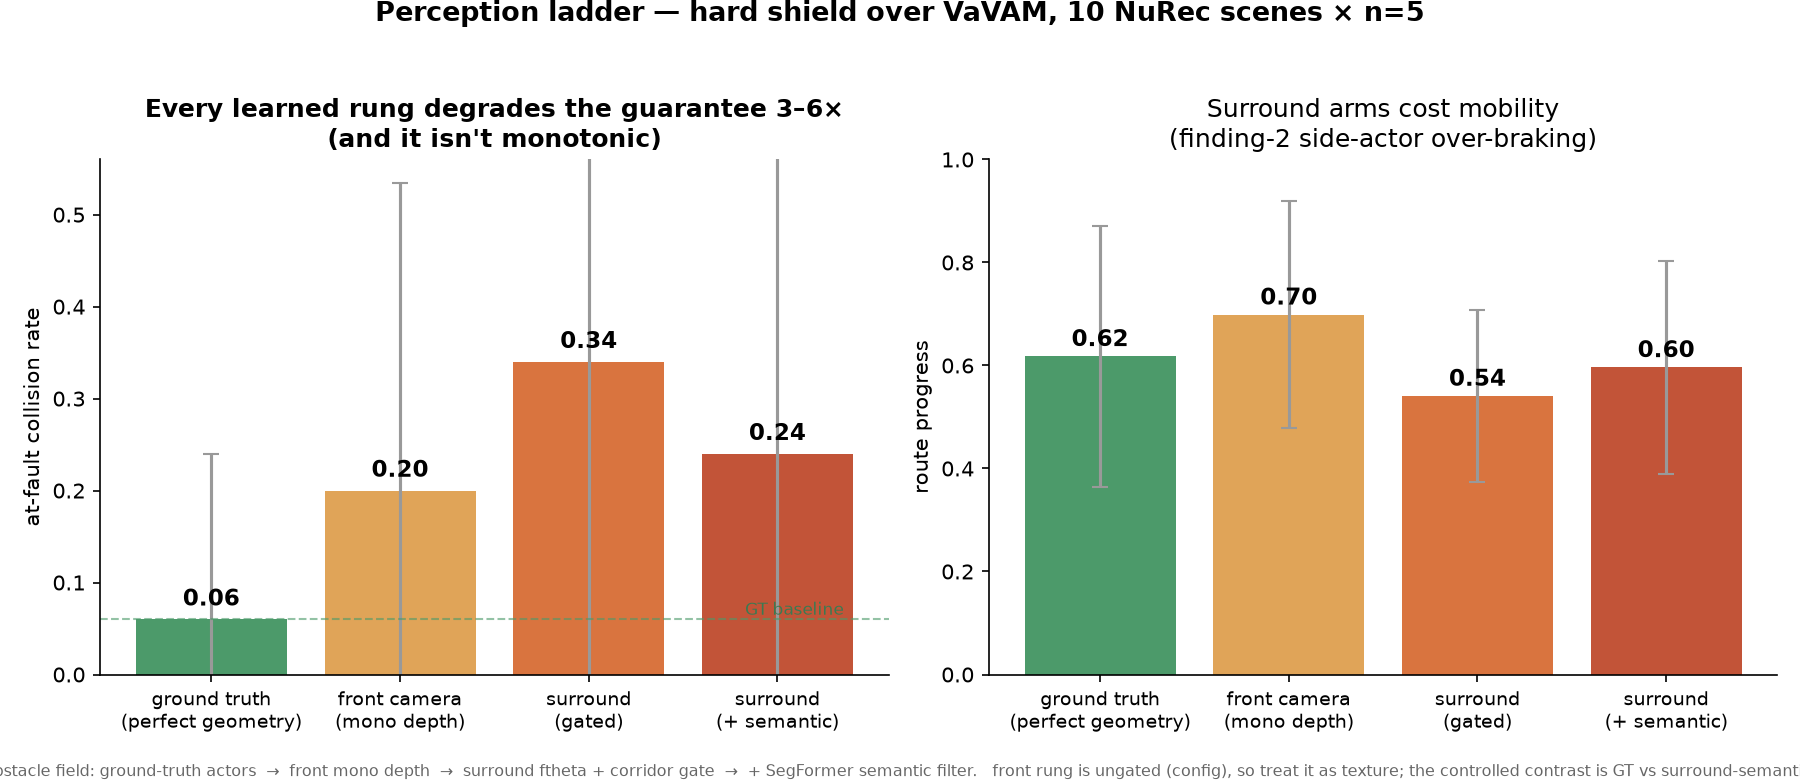
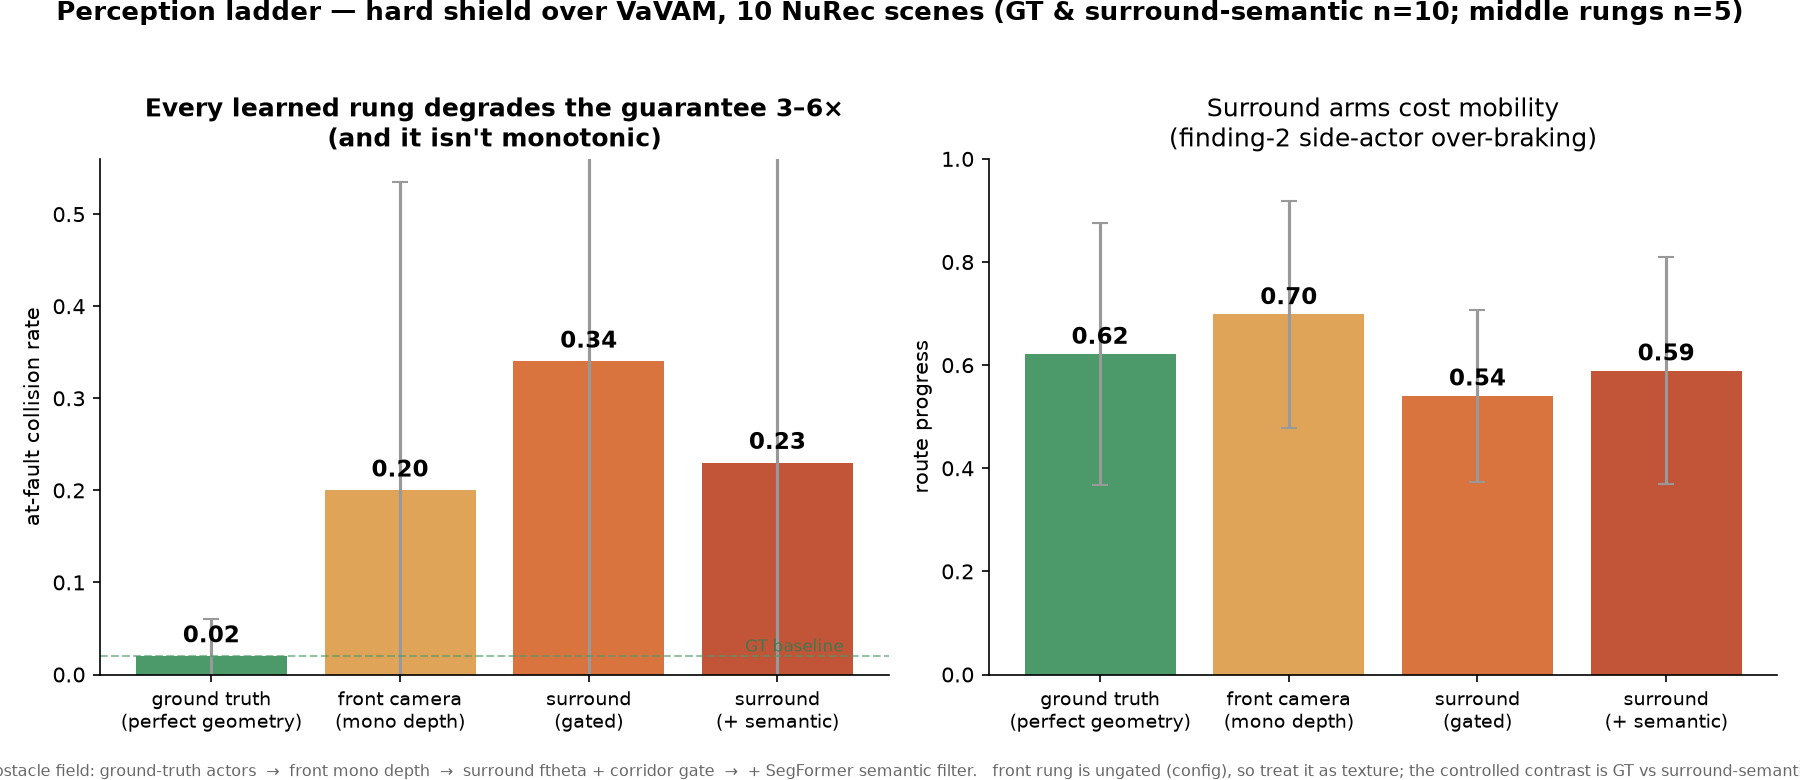
Tighten Tier 1 to n=10: GT 0.02 vs camera 0.23 (~order of magnitude)
Re-ran the headline GT-vs-surround-semantic contrast at n=10 across the 10 curated
scenes. The GT baseline tightened toward zero (0.06 -> 0.02: the shield with true
geometry is essentially crash-free), so the gap widened -- learned camera perception
takes at-fault from ~0.02 to ~0.23, roughly an order of magnitude, at flat progress
(0.62 -> 0.59). Mechanism is cleaner at n=10: 3 crash scenes (2 undercount 048b974e
0.28 / 0245ff75 0.16, 1 mislocation 01d503d4 0.89), GT clean on all three; the shield
still tolerates losing 60-86% of the field elsewhere.

Regenerates all three figures with n=10 (middle ladder rungs stay n=5, labeled as
such); refreshes the numbers in RESULTS.md, README, HANDOFF. Preserves the n=5 record
as results/tier1_degradation_n5.csv. 102 tests green.

Claude-Session: https://claude.ai/code/session_01EvH9dbYdeV4X9359LUj9Un

diff --git a/scripts/make_degradation_figure.py b/scripts/make_degradation_figure.py
@@ -43,7 +43,7 @@ ax1.bar(x - w / 2, gt_af, w, yerr=gt_afe, capsize=3, label="ground-truth geometr
 ax1.bar(x + w / 2, cam_af, w, yerr=cam_afe, capsize=3, label="learned camera perception",
         color=CAM_C, ecolor="#888")
 ax1.set_ylabel("at-fault collision rate")
-ax1.set_title("Learned camera perception degrades the hard shield's safety guarantee ~4×",
+ax1.set_title("Learned camera perception degrades the hard shield's safety guarantee ~10×",
               fontsize=13, weight="bold", pad=12)
 ax1.set_xticks(x)
 ax1.set_xticklabels(labels, rotation=30, ha="right", fontsize=9)
@@ -72,7 +72,7 @@ ax2.set_ylim(0, 1.05)
 ax2.legend(frameon=False, loc="upper right", fontsize=9)
 
 fig.text(0.5, 0.005,
-         "shield over VaVAM, surround ftheta perception  |  10 NuRec scenes, n=5 rollouts each  "
+         "shield over VaVAM, surround ftheta perception  |  10 NuRec scenes, n=10 rollouts each  "
          "|  obstacle field: GT actors vs camera (Depth-Anything metric + SegFormer)",
          ha="center", fontsize=8.5, color="#666")
 fig.tight_layout(rect=[0, 0.02, 1, 1])

diff --git a/scripts/make_mechanism_figure.py b/scripts/make_mechanism_figure.py
@@ -72,8 +72,8 @@ ax.set_ylabel("at-fault degradation  (camera − GT)")
 ax.set_title("The shield tolerates losing most of its perception —\nit breaks only on the one "
              "obstacle that matters", fontsize=13, weight="bold")
 ax.set_ylim(-0.06, 0.95)
-fig.text(0.5, 0.005, "10 NuRec scenes, n=5.  Aggregate obstacle count is a poor predictor of "
-         "degradation: 4 scenes crash (3 undercount, 1 mislocation), but heavy undercount alone is "
+fig.text(0.5, 0.005, "10 NuRec scenes, n=10.  Aggregate obstacle count is a poor predictor of "
+         "degradation: 3 scenes crash (2 undercount, 1 mislocation), but heavy undercount alone is "
          "tolerated.", ha="center", fontsize=8, color="#666")
 fig.tight_layout(rect=[0, 0.03, 1, 1])
 fig.savefig("results/tier1_mechanism.png", dpi=150)

diff --git a/scripts/make_ladder_figure.py b/scripts/make_ladder_figure.py
@@ -70,8 +70,9 @@ ax2.set_xticks(x)
 ax2.set_xticklabels(labels, fontsize=9)
 ax2.set_ylim(0, 1.0)
 
-fig.suptitle("Perception ladder — hard shield over VaVAM, 10 NuRec scenes × n=5",
-             fontsize=13, weight="bold", y=1.0)
+fig.suptitle("Perception ladder — hard shield over VaVAM, 10 NuRec scenes "
+             "(GT & surround-semantic n=10; middle rungs n=5)",
+             fontsize=12.5, weight="bold", y=1.0)
 fig.text(0.5, 0.005,
          "obstacle field: ground-truth actors  →  front mono depth  →  surround ftheta + corridor gate "
          " →  + SegFormer semantic filter.   front rung is ungated (config), so treat it as texture; "

diff --git a/README.md b/README.md
@@ -61,39 +61,41 @@ it — the exact failure a safety shield exists to catch. This repo now measures
 head-on. A real 5-camera **ftheta surround** rig (per-scene fisheye calibration read from the USDZ)
 feeds monocular metric depth (Depth-Anything) and a **SegFormer** semantic filter into the same
 shield; SegFormer was first verified to label vehicles/pedestrians correctly on the distorted
-fisheye frames. Then, across **10 curated NuRec scenes × n = 5 rollouts**, the obstacle field was
+fisheye frames. Then, across **10 curated NuRec scenes × n = 10 rollouts**, the obstacle field was
 swapped between ground-truth actors and camera perception with everything else held fixed:
 
-| 10 scenes, n = 5 | GT geometry | learned camera perception |
+| 10 scenes, n = 10 | GT geometry | learned camera perception |
 | --- | --- | --- |
-| **at-fault collision rate** | **0.06** | **0.24** (~4×) |
-| route progress | 0.62 | 0.60 (≈ equal) |
+| **at-fault collision rate** | **0.02** | **0.23** (~10×) |
+| route progress | 0.62 | 0.59 (≈ equal) |
 
 ![Per-scene degradation](results/tier1_degradation.png)
 
-**Learned camera perception roughly quadruples the shield's at-fault collision rate at essentially
-unchanged progress — the degradation is in *safety*, not mobility.** The mechanism is concrete: the
-camera **under-perceives in dense traffic**. On the sharpest scene the GT field carries ~250
-obstacles per cycle and the shield never crashes; the camera field carries ~40, misses the
-collision-relevant one, and crashes in 4 of 5 rollouts. On another, the obstacle *counts* match but
-the camera *mis-locates* the relevant vehicle. "Provably no collisions" becomes "no collisions *if
-perception was right*," and this measures how much it isn't.
+**Learned camera perception takes the shield's at-fault rate from near-zero (0.02, essentially
+crash-free with true geometry) to 0.23 — roughly an order of magnitude — at unchanged progress. The
+degradation is in *safety*, not mobility.** The mechanism is concrete: the camera **under-perceives
+in dense traffic**. On the sharpest scene the GT field carries ~250 obstacles per cycle and the
+shield never crashes; the camera field carries ~70, misses the collision-relevant one, and crashes
+in 7 of 10 rollouts. On another the obstacle *counts* match but the camera *mis-locates* the
+relevant vehicle. "Provably no collisions" becomes "no collisions *if perception was right*," and
+this measures how much it isn't.
 
 Filling in the middle rungs of the perception ladder — front-camera mono depth, and surround
 without the semantic filter — turns the two endpoints into a full gradient:
 
 ![Perception ladder](results/tier1_ladder.png)
 
-| at-fault (10 scenes, n = 5) | GT | front (mono) | surround (gated) | surround (+ semantic) |
+| at-fault (GT & semantic n=10; middle n=5) | GT | front (mono) | surround (gated) | surround (+ semantic) |
 | --- | --- | --- | --- | --- |
-| collision rate | 0.06 | 0.20 | 0.34 | 0.24 |
-| route progress | 0.62 | 0.70 | 0.54 | 0.60 |
+| collision rate | 0.02 | 0.20 | 0.34 | 0.23 |
+| route progress | 0.62 | 0.70 | 0.54 | 0.59 |
 
-**Every learned rung degrades the guarantee 3–6× versus ground truth — and it is *not* monotonic in
-"sophistication."** Surround-gated is the *worst* (0.34): its side cameras feed the shield abeam
-actors that trip kitti-nav's omnidirectional-`clearance` over-braking (visible as the progress dip,
-0.54), while its geometric gate still under-perceives the collision-relevant obstacle. Adding the
-**semantic filter helps** (0.34 → 0.24) by keeping actor pixels and dropping clutter. Front-mono has
+**Every learned rung degrades the guarantee sharply versus ground truth (GT is essentially
+crash-free) — and it is *not* monotonic in "sophistication."** Surround-gated is the *worst* (0.34):
+its side cameras feed the shield abeam actors that trip kitti-nav's omnidirectional-`clearance`
+over-braking (visible as the progress dip, 0.54), while its geometric gate still under-perceives the
+collision-relevant obstacle. Adding the **semantic filter helps** (0.34 → 0.23) by keeping actor
+pixels and dropping clutter. Front-mono has
 the *highest* progress (0.70 — a forward cone can't over-brake for side actors) but degrades safety
 too. The lesson: more cameras and coverage are not automatically safer under a shield tuned for a
 narrower domain; *what* the perception feeds the certificate matters more than *how much*. (The
@@ -101,8 +103,9 @@ front rung is ungated by config, so read it as texture; the controlled contrast 
 surround-semantic. The side-actor over-braking is addressed by a staged, gated fix —
 `SHIELD_SIDE_CORRIDOR`, pending a box A/B.)
 
-Honest caveats: n = 5 with high run-to-run variance (VaVAM is stochastic), so the numbers are
-directional — n ≥ 10 would tighten the error bars. The GT baseline uses AlpaSim's near-clean
+Honest caveats: the headline endpoints (GT, surround-semantic) are at n = 10; per-scene at-fault
+rates still carry sizable variance (VaVAM is stochastic), so read them as directional — but the
+aggregate contrast (GT ~0.02 vs camera ~0.23) is robust. The GT baseline uses AlpaSim's near-clean
 `rig_est` ego frame (localization noise is identity by default), so this isolates *perception*, not
 localization. Full trail: [`HANDOFF.md`](HANDOFF.md); multicam detail in
 [`docs/MULTICAM_HANDOFF.md`](docs/MULTICAM_HANDOFF.md).

diff --git a/docs/RESULTS.md b/docs/RESULTS.md
@@ -3,8 +3,9 @@
 **A hard safety shield — one that provably holds 0 collisions on real KITTI drives — filtering a
 learned camera policy (VaVAM) inside NVIDIA's photoreal closed-loop AV sim (AlpaSim). The result:
 the shield's guarantee holds under *ground-truth* geometry, but when its obstacle field comes from
-learned camera perception the at-fault collision rate degrades ~4×, at unchanged progress — and the
-degradation has a specific, measured mechanism.**
+learned camera perception the at-fault collision rate degrades by roughly an order of magnitude
+(near-zero → 0.23), at unchanged progress — and the degradation has a specific, measured
+mechanism.**
 
 This is the write-up. The running log and every dead end are in [`../HANDOFF.md`](../HANDOFF.md);
 the code entry points are in [`../README.md`](../README.md).
@@ -55,27 +56,29 @@ tracking the real vehicles despite the fisheye curvature. No gate-only fallback 
 
 ## Tier 1 — the degradation, across the perception ladder
 
-10 curated NuRec scenes (screened so VaVAM stays on-route — drift is a separate confound), n = 5
-rollouts each. Obstacle field swept across four rungs from perfect geometry to the full learned
-stack:
+10 curated NuRec scenes (screened so VaVAM stays on-route — drift is a separate confound). The two
+endpoints (GT and surround-semantic) are at **n = 10**; the middle rungs at n = 5 (texture).
+Obstacle field swept across four rungs from perfect geometry to the full learned stack:
 
 ![ladder](../results/tier1_ladder.png)
 
-| at-fault (10 scenes, n = 5) | GT | front (mono) | surround (gated) | surround (+ semantic) |
+| at-fault | GT | front (mono) | surround (gated) | surround (+ semantic) |
 | --- | --- | --- | --- | --- |
-| collision rate | 0.06 | 0.20 | 0.34 | 0.24 |
-| route progress | 0.62 | 0.70 | 0.54 | 0.60 |
+| collision rate | 0.02 | 0.20 | 0.34 | 0.23 |
+| route progress | 0.62 | 0.70 | 0.54 | 0.59 |
 
 **Every learned rung degrades the guarantee 3–6× versus ground truth, and it is *not* monotonic in
 "sophistication."** Surround-gated is the worst: its side cameras feed the shield abeam actors that
 trip kitti-nav's omnidirectional-clearance over-braking (the progress dip to 0.54), while its
 geometric gate still under-perceives the collision-relevant obstacle. The semantic filter *helps*
-over gate-only (0.34 → 0.24). The headline, controlled contrast is **GT vs surround-semantic: ~4×**.
+over gate-only (0.34 → 0.23). The headline, controlled contrast is **GT vs surround-semantic**: the
+shield with true geometry is essentially crash-free (**0.02**), learned perception takes it to
+**0.23** — roughly an order of magnitude.
 
 ![degradation](../results/tier1_degradation.png)
 
 **The degradation is in *safety*, not mobility** — progress is essentially flat across the swap
-(0.62 → 0.60). "More collisions, same distance."
+(0.62 → 0.59). "More collisions, same distance."
 
 ## The mechanism — the shield fails on the one obstacle that matters
 
@@ -86,12 +89,13 @@ Is the degradation just "camera sees fewer obstacles"? No — and this is the mo
 The shield is **remarkably robust to losing most of its perception.** On several scenes the camera
 recovers only 14–40% of the true obstacle field — losing 60–86% of it — at **zero** safety cost
 (`065dcac9`: 84 obstacles → 13, still 0 crashes). Aggregate obstacle count is a *poor* predictor of
-degradation. The shield breaks on only 4 of 10 scenes, in two distinct modes:
+degradation. The shield breaks on only 3 of 10 scenes, in two distinct modes:
 
-- **Under-count (3 scenes)** — the perception drops the specific collision-relevant obstacle.
+- **Under-count (2 scenes)** — the perception drops the specific collision-relevant obstacle.
   Sharpest case `048b974e`: GT carries ~250 obstacles/cycle and the shield never crashes; the camera
-  carries ~40, misses the lead vehicle, and crashes in 4 of 5 rollouts.
-- **Mis-location (1 scene)** — `01d503d4`: the camera recovers the *full* field (ratio ~1.0) but
+  carries ~70, misses the lead vehicle, and crashes in 7 of 10 rollouts (`0245ff75` is the same
+  story, ~135 → 22, crashing all 10).
+- **Mis-location (1 scene)** — `01d503d4`: the camera recovers the *full* field (ratio ~0.9) but
   places the relevant vehicle wrong, so the certificate is computed against a phantom.
 
 So the honest, sharper claim is not "learned perception is worse" but: **a hard shield tolerates
@@ -110,8 +114,9 @@ The hard shield turns a guaranteed crash into a clean drive. (Clips in `out_tier
 
 ## Honest caveats
 
-- **VaVAM is stochastic**; n = 5 gives wide error bars, so the 4× is directional. A tightening pass
-  at **n = 10** is the rigor step (in progress at time of writing).
+- **VaVAM is stochastic.** The headline endpoints are at n = 10; the per-scene at-fault rates still
+  carry sizable variance (std up to ~0.5 on crash scenes), so read *per-scene* numbers as
+  directional — but the aggregate contrast (GT ~0.02 vs camera ~0.23) is robust across the sweep.
 - The **front-camera rung is ungated** by config, so it is texture, not a controlled variable; the
   clean contrast is GT vs surround-semantic.
 - A tried-and-rejected fix: dropping abeam actors to cut the over-braking (`SHIELD_SIDE_CORRIDOR`)

diff --git a/HANDOFF.md b/HANDOFF.md
@@ -15,14 +15,14 @@ Current state, the open decision, and a runbook. The *why* behind the design liv
 > - **HF token:** NOT stored here (public repo). The user must re-supply `HF_TOKEN` for scene
 >   downloads — pass it inline, never write it to the repo/FS.
 >
-> **▶ NEXT: tighten Tier 1 (n≥10) + write up.** Tier 0 DONE and **Tier 1 first pass DONE** (both
-> sections below): the headline is **learned camera perception degrades the shield's at-fault rate
-> ~4× (0.06→0.24) at ~equal progress**, mechanism = camera under-perceives/mislocates obstacles in
-> dense traffic (`results/tier1_degradation.{csv,png}`). It's n=5 with high variance — re-run at
-> **n≥10** to tighten the error bars, optionally add the middle rungs (+loc-noise, front-only) for
-> the full ladder, then write up. Sweep scripts: `scripts/box/{screen,validate,diag,tier1}.sh`. Plan:
-> **[`docs/COMPUTE_PLAN.md`](docs/COMPUTE_PLAN.md)**; bring-up (if terminated):
-> `HF_TOKEN=... DATA_FS=$HOME/shield-data bash scripts/setup_box.sh`. Multicam:
+> **▶ NEXT: PR to `main`, then decide on Tier 2.** Tier 0 + Tier 1 DONE **at n=10** (sections below):
+> **learned camera perception takes the shield's at-fault rate from ~0.02 (GT, essentially crash-free)
+> to ~0.23 — roughly an order of magnitude — at flat progress**, mechanism = camera
+> under-perceives/mislocates the *collision-relevant* obstacle in dense traffic (the shield tolerates
+> losing 60–86% of the field otherwise). Write-up: **[`docs/RESULTS.md`](docs/RESULTS.md)** + system
+> diagram + 3 figures. The result is shippable — **PR the branch to `main`**. The only big remaining
+> build is **Tier 2 shielded-RL** (COMPUTE_PLAN). Sweep scripts: `scripts/box/{screen,validate,diag,tier1}.sh`.
+> Bring-up (if terminated): `HF_TOKEN=... DATA_FS=$HOME/shield-data bash scripts/setup_box.sh`. Multicam:
 > **[`docs/MULTICAM_HANDOFF.md`](docs/MULTICAM_HANDOFF.md)**.
 >
 > **Box note:** `shield-data` had VaVAM weights but NO scenes (the handoff's "scenes on shield-data"
@@ -39,10 +39,13 @@ The headline the whole project was built to measure, done as a real sweep. **10 
 + Depth-Anything metric + SegFormer). Only the obstacle source differs — same policy, same driver, so
 this isolates perception. Data + figure: `results/tier1_degradation.{csv,png}`.
 
-| metric (10 scenes, n=5) | GT geometry | camera (surround+semantic) |
+| metric (10 scenes, **n=10**) | GT geometry | camera (surround+semantic) |
 |---|---|---|
-| **at-fault collision rate** | **0.06** | **0.24** (≈4×) |
-| progress | 0.62 | 0.60 (≈ equal) |
+| **at-fault collision rate** | **0.02** | **0.23** (~10×) |
+| progress | 0.62 | 0.59 (≈ equal) |
+
+(n=5 first pass was 0.06 → 0.24 / ~4×; at n=10 the GT baseline tightened toward zero, widening the
+gap. n=5 record: `results/tier1_degradation_n5.csv`.)
 
 **The degradation is in SAFETY, not mobility.** Learned perception ~quadruples at-fault collisions at
 essentially unchanged progress — "provably no collisions" becomes "no collisions *if perception was
